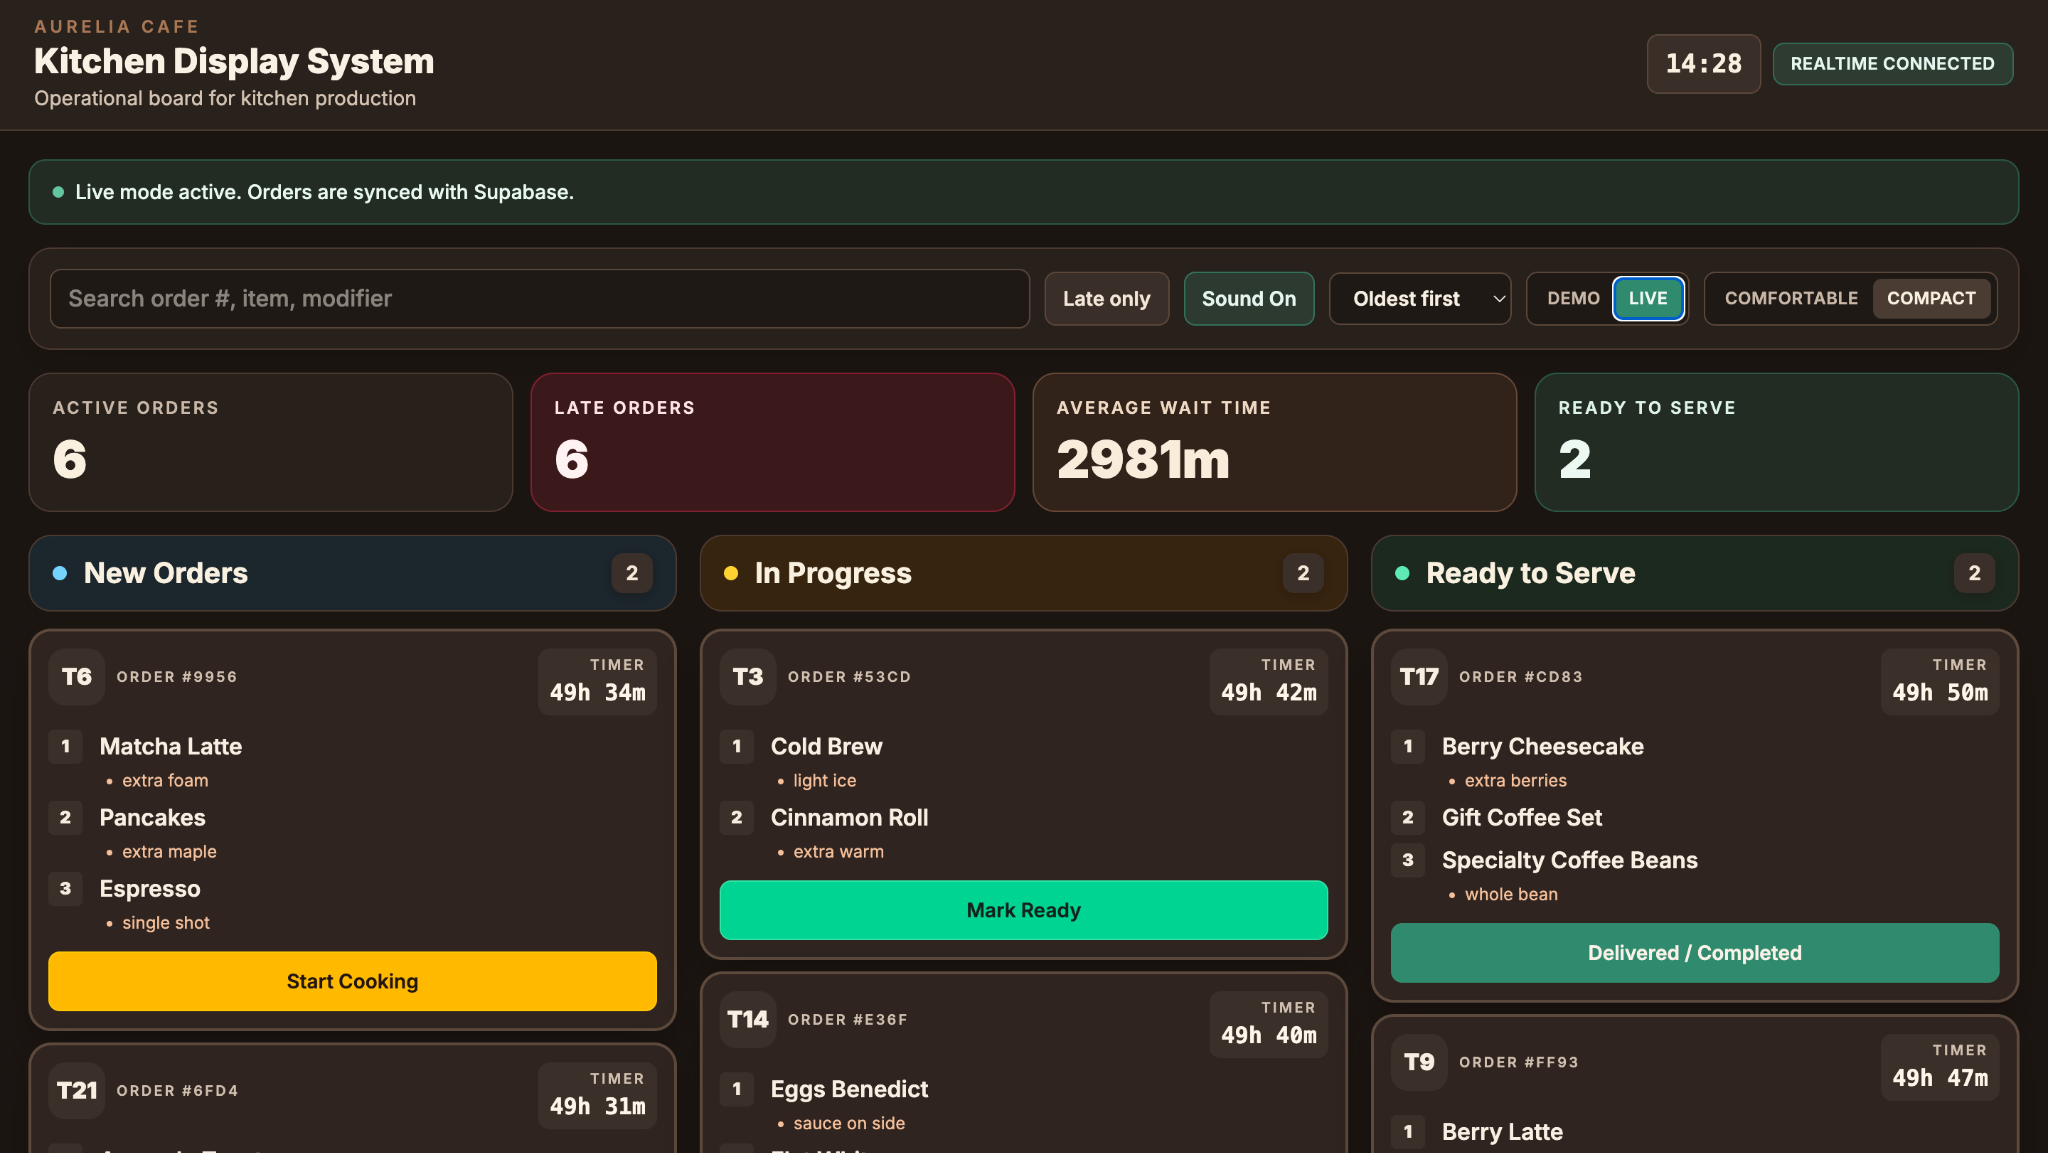
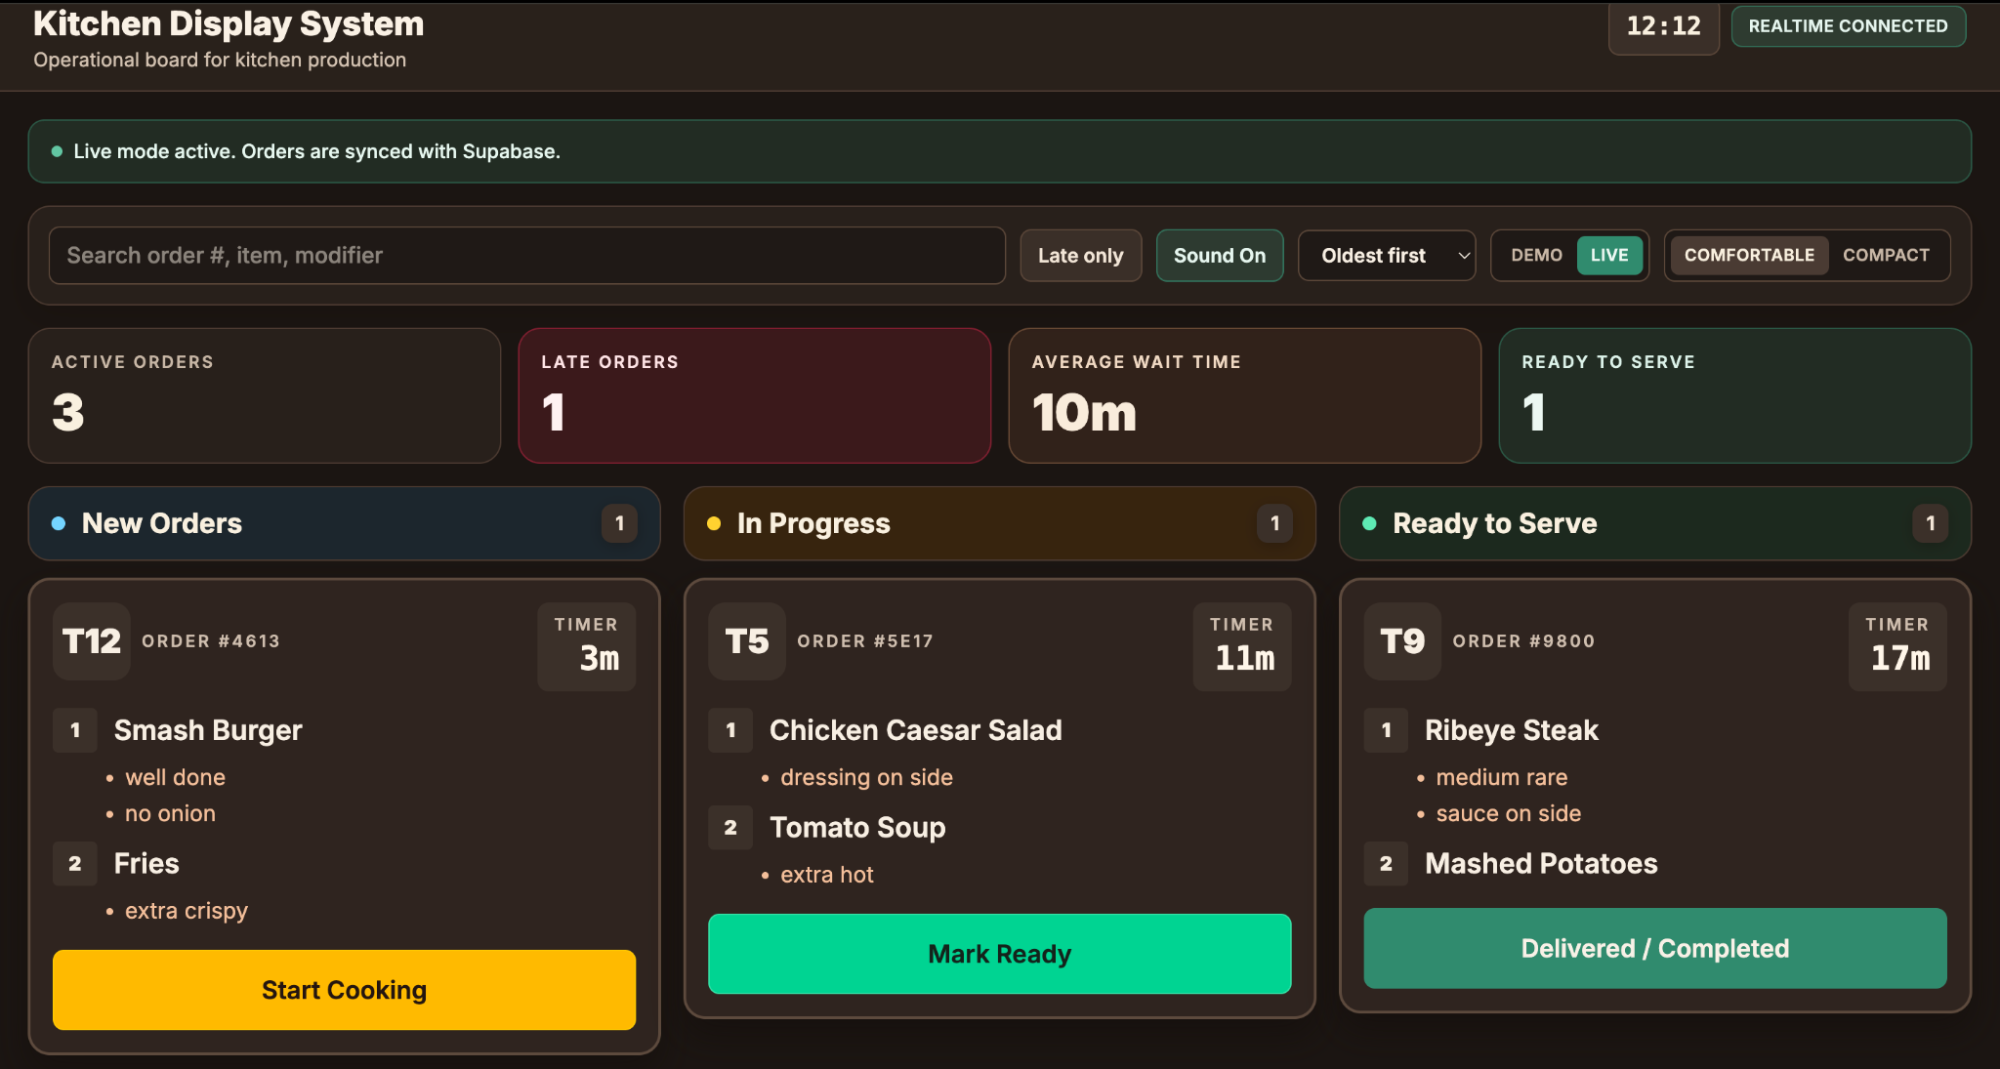
Refine Aurelia case study and project layouts

Changed region(s): [[0.0, 0.1235, 0.992, 1.0], [0.0, 0.0, 0.217, 0.0926], [0.775, 0.0, 0.992, 0.0926]]

diff --git a/src/pages/LeadMarketingCaseStudyPage.tsx b/src/pages/LeadMarketingCaseStudyPage.tsx
@@ -81,32 +81,6 @@ export function LeadMarketingCaseStudyPage() {
                   appropriate next step.
                 </p>
               </div>
-              <dl className="mt-8 grid gap-x-8 gap-y-5 sm:grid-cols-2">
-                <div className="border-t border-border/45 pt-3">
-                  <dt className="text-[0.68rem] font-semibold tracking-[0.14em] text-secondary uppercase">ROLE</dt>
-                  <dd className="mt-2 text-[0.95rem] leading-[1.5] text-text">
-                    Automation strategy · Funnel architecture · Implementation
-                  </dd>
-                </div>
-                <div className="border-t border-border/45 pt-3">
-                  <dt className="text-[0.68rem] font-semibold tracking-[0.14em] text-secondary uppercase">PROJECT TYPE</dt>
-                  <dd className="mt-2 text-[0.95rem] leading-[1.5] text-text">
-                    Lead generation · Marketing automation · CRM workflow
-                  </dd>
-                </div>
-                <div className="border-t border-border/45 pt-3">
-                  <dt className="text-[0.68rem] font-semibold tracking-[0.14em] text-secondary uppercase">FOCUS</dt>
-                  <dd className="mt-2 text-[0.95rem] leading-[1.5] text-text">
-                    Lead nurturing · Qualification · CRM progression · Cross-platform automation
-                  </dd>
-                </div>
-                <div className="border-t border-border/45 pt-3">
-                  <dt className="text-[0.68rem] font-semibold tracking-[0.14em] text-secondary uppercase">SYSTEM</dt>
-                  <dd className="mt-2 text-[0.95rem] leading-[1.5] text-text">
-                    Lead magnet → nurture → webinar → qualification → strategy call
-                  </dd>
-                </div>
-              </dl>
             </div>
 
             <Screenshot
@@ -116,6 +90,33 @@ export function LeadMarketingCaseStudyPage() {
               frameClassName="h-[10.5rem] sm:h-[12.5rem] lg:h-auto lg:aspect-[1874/552]"
             />
           </div>
+
+          <dl className="mt-8 grid gap-x-8 gap-y-5 sm:grid-cols-2 lg:grid-cols-4">
+            <div className="border-t border-border/45 pt-3">
+              <dt className="text-[0.68rem] font-semibold tracking-[0.14em] text-secondary uppercase">ROLE</dt>
+              <dd className="mt-2 text-[0.95rem] leading-[1.5] text-text">
+                Automation strategy · Funnel architecture · Implementation
+              </dd>
+            </div>
+            <div className="border-t border-border/45 pt-3">
+              <dt className="text-[0.68rem] font-semibold tracking-[0.14em] text-secondary uppercase">PROJECT TYPE</dt>
+              <dd className="mt-2 text-[0.95rem] leading-[1.5] text-text">
+                Lead generation · Marketing automation · CRM workflow
+              </dd>
+            </div>
+            <div className="border-t border-border/45 pt-3">
+              <dt className="text-[0.68rem] font-semibold tracking-[0.14em] text-secondary uppercase">FOCUS</dt>
+              <dd className="mt-2 text-[0.95rem] leading-[1.5] text-text">
+                Lead nurturing · Qualification · CRM progression · Cross-platform automation
+              </dd>
+            </div>
+            <div className="border-t border-border/45 pt-3">
+              <dt className="text-[0.68rem] font-semibold tracking-[0.14em] text-secondary uppercase">SYSTEM</dt>
+              <dd className="mt-2 text-[0.95rem] leading-[1.5] text-text">
+                Lead magnet → nurture → webinar → qualification → strategy call
+              </dd>
+            </div>
+          </dl>
         </section>
 
         <section className="content-wrap space-y-24 pb-20">

diff --git a/src/pages/AiSupportCaseStudyPage.tsx b/src/pages/AiSupportCaseStudyPage.tsx
@@ -78,32 +78,6 @@ export function AiSupportCaseStudyPage() {
                   operational process.
                 </p>
               </div>
-              <dl className="mt-8 grid gap-x-8 gap-y-5 sm:grid-cols-2">
-                <div className="border-t border-border/45 pt-3">
-                  <dt className="text-[0.68rem] font-semibold tracking-[0.14em] text-secondary uppercase">ROLE</dt>
-                  <dd className="mt-2 text-[0.95rem] leading-[1.5] text-text">
-                    AI support architecture · Knowledge structure · Workflow automation
-                  </dd>
-                </div>
-                <div className="border-t border-border/45 pt-3">
-                  <dt className="text-[0.68rem] font-semibold tracking-[0.14em] text-secondary uppercase">PROJECT TYPE</dt>
-                  <dd className="mt-2 text-[0.95rem] leading-[1.5] text-text">
-                    AI customer support · Routing · Business automation
-                  </dd>
-                </div>
-                <div className="border-t border-border/45 pt-3">
-                  <dt className="text-[0.68rem] font-semibold tracking-[0.14em] text-secondary uppercase">FOCUS</dt>
-                  <dd className="mt-2 text-[0.95rem] leading-[1.5] text-text">
-                    AI-assisted resolution · Escalation · Cross-system handoff
-                  </dd>
-                </div>
-                <div className="border-t border-border/45 pt-3">
-                  <dt className="text-[0.68rem] font-semibold tracking-[0.14em] text-secondary uppercase">SYSTEM</dt>
-                  <dd className="mt-2 text-[0.95rem] leading-[1.5] text-text">
-                    Customer question → Fin → resolution or routing → team / sales workflow
-                  </dd>
-                </div>
-              </dl>
             </div>
 
             <div className="w-full max-w-[18rem] sm:max-w-[21rem] lg:ml-auto lg:mr-0 lg:max-w-[23rem]">
@@ -115,6 +89,33 @@ export function AiSupportCaseStudyPage() {
               />
             </div>
           </div>
+
+          <dl className="mt-8 grid gap-x-8 gap-y-5 sm:grid-cols-2 lg:grid-cols-4">
+            <div className="border-t border-border/45 pt-3">
+              <dt className="text-[0.68rem] font-semibold tracking-[0.14em] text-secondary uppercase">ROLE</dt>
+              <dd className="mt-2 text-[0.95rem] leading-[1.5] text-text">
+                AI support architecture · Knowledge structure · Workflow automation
+              </dd>
+            </div>
+            <div className="border-t border-border/45 pt-3">
+              <dt className="text-[0.68rem] font-semibold tracking-[0.14em] text-secondary uppercase">PROJECT TYPE</dt>
+              <dd className="mt-2 text-[0.95rem] leading-[1.5] text-text">
+                AI customer support · Routing · Business automation
+              </dd>
+            </div>
+            <div className="border-t border-border/45 pt-3">
+              <dt className="text-[0.68rem] font-semibold tracking-[0.14em] text-secondary uppercase">FOCUS</dt>
+              <dd className="mt-2 text-[0.95rem] leading-[1.5] text-text">
+                AI-assisted resolution · Escalation · Cross-system handoff
+              </dd>
+            </div>
+            <div className="border-t border-border/45 pt-3">
+              <dt className="text-[0.68rem] font-semibold tracking-[0.14em] text-secondary uppercase">SYSTEM</dt>
+              <dd className="mt-2 text-[0.95rem] leading-[1.5] text-text">
+                Customer question → Fin → resolution or routing → team / sales workflow
+              </dd>
+            </div>
+          </dl>
         </section>
 
         <section className="content-wrap space-y-24 pb-20">

diff --git a/src/components/case-study/CaseStudyTemplate.tsx b/src/components/case-study/CaseStudyTemplate.tsx
@@ -80,33 +80,31 @@ export function CaseStudyTemplate({ caseStudy }: CaseStudyTemplateProps) {
                 </p>
               ))}
             </div>
-            <dl className="mt-8 grid gap-x-8 gap-y-5 sm:grid-cols-2">
-              {caseStudy.heroMetadata.map((item) => (
-                <div key={item.label} className="border-t border-border/45 pt-3">
-                  <dt className="text-[0.68rem] font-semibold tracking-[0.14em] text-secondary uppercase">{item.label}</dt>
-                  <dd className="mt-2 text-[0.95rem] leading-[1.5] text-text">{item.value}</dd>
-                </div>
-              ))}
-            </dl>
           </div>
 
           <div className="space-y-4">
             <FramedImage image={caseStudy.customerExperience.images[0]} frameClassName="h-[18rem] sm:h-[24rem] lg:h-[26rem]" />
           </div>
         </div>
+
+        <dl className="mt-8 grid gap-x-8 gap-y-5 sm:grid-cols-2 lg:grid-cols-4">
+          {caseStudy.heroMetadata.map((item) => (
+            <div key={item.label} className="border-t border-border/45 pt-3">
+              <dt className="text-[0.68rem] font-semibold tracking-[0.14em] text-secondary uppercase">{item.label}</dt>
+              <dd className="mt-2 text-[0.95rem] leading-[1.5] text-text">{item.value}</dd>
+            </div>
+          ))}
+        </dl>
       </section>
 
       <section className="content-wrap space-y-24 pb-20">
         <article>
           <SectionIntro section={caseStudy.customerExperience} />
-          <div className="mt-10 grid gap-6 lg:grid-cols-[1.1fr_0.9fr]">
-            <FramedImage image={caseStudy.customerExperience.images[0]} frameClassName="h-[19rem] sm:h-[24rem] lg:h-[30rem]" />
-            <div className="space-y-6">
-              <FramedImage image={caseStudy.customerExperience.images[1]} frameClassName="h-[18rem] sm:h-[22rem] lg:h-[23rem]" />
-              <div className="grid gap-6 sm:grid-cols-2">
-                <FramedImage image={caseStudy.customerExperience.images[2]} frameClassName="h-[14rem] sm:h-[16rem] lg:h-[17rem]" />
-                <FramedImage image={caseStudy.customerExperience.images[3]} frameClassName="h-[14rem] sm:h-[16rem] lg:h-[17rem]" />
-              </div>
+          <div className="mt-10 space-y-6">
+            <FramedImage image={caseStudy.customerExperience.images[1]} frameClassName="h-[20rem] sm:h-[28rem] lg:h-[36rem]" />
+            <div className="grid gap-6 sm:grid-cols-2">
+              <FramedImage image={caseStudy.customerExperience.images[2]} frameClassName="h-[18rem] sm:h-[22rem] lg:h-[24rem]" />
+              <FramedImage image={caseStudy.customerExperience.images[3]} frameClassName="h-[18rem] sm:h-[22rem] lg:h-[24rem]" />
             </div>
           </div>
         </article>

diff --git a/src/content/projects.ts b/src/content/projects.ts
@@ -123,7 +123,7 @@ export const aureliaCaseStudy: CaseStudyData = {
     { label: 'Role', value: 'Product concept · UX/UI · AI-assisted development' },
     { label: 'Project Type', value: 'Concept project · connected hospitality ecosystem' },
     { label: 'Focus', value: 'Customer experience · operations workflows · kitchen execution' },
-    { label: 'Structure', value: '3 complementary prototypes in one operational system' },
+    { label: 'Structure', value: '3 complementary prototypes across one hospitality workflow' },
   ],
   customerExperience: {
     label: 'CUSTOMER EXPERIENCE',
